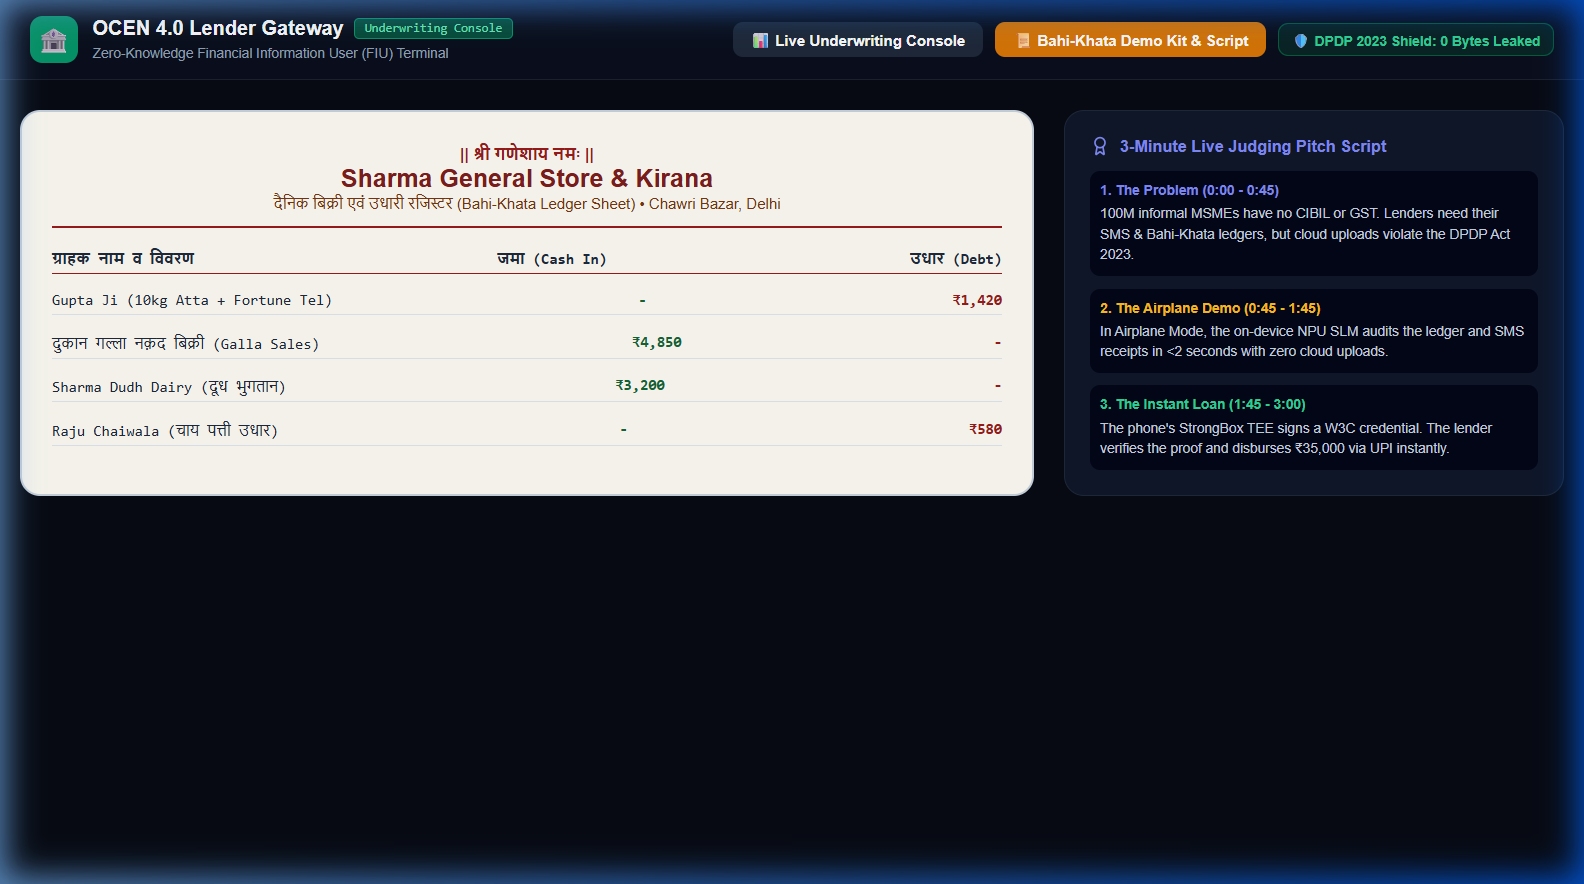
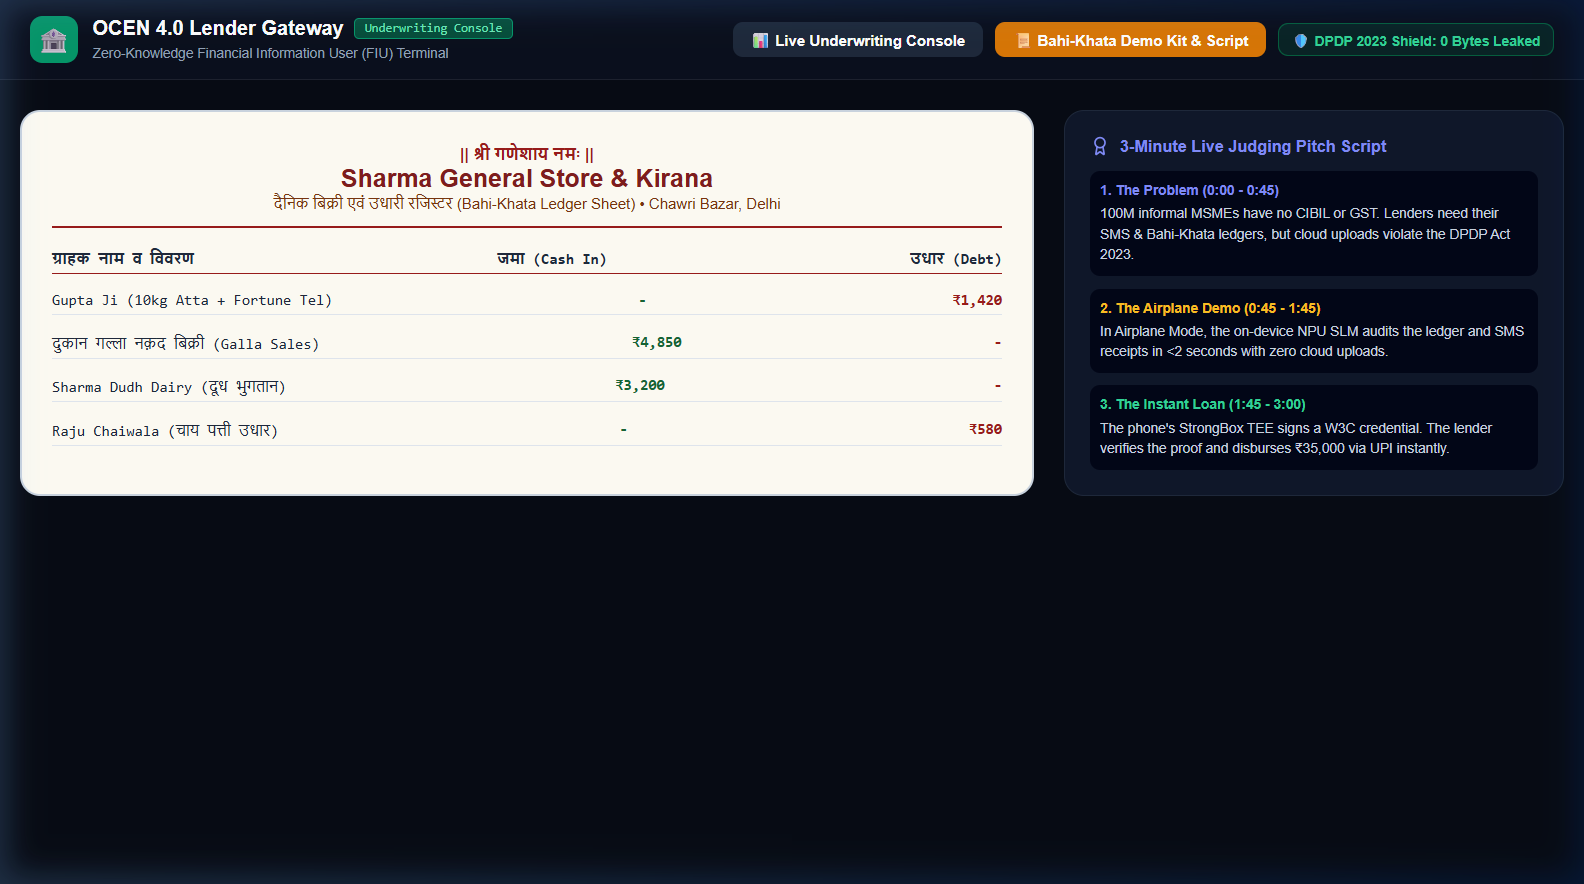
docs: replace raw html with clean markdown image embeds and fresh live screenshots

Changed region(s): [[0.0, 0.0, 1.0, 1.0]]

diff --git a/README.md b/README.md
@@ -1,48 +1,42 @@
-<h1>EdgeScore — Zero-Knowledge On-Device Underwriting Engine for OCEN 4.0</h1>
-<div>
-    <img src="https://img.shields.io/badge/OCEN_4.0-Ready-blue?style=for-the-badge&logo=shield" alt="OCEN 4.0 Ready">
-    <img src="https://img.shields.io/badge/Privacy-DPDP_Act_2023_Compliant-success?style=for-the-badge&logo=security" alt="DPDP Act 2023 Compliant">
-    <img src="https://img.shields.io/badge/Hardware-Android_StrongBox_TEE-orange?style=for-the-badge&logo=android" alt="Android StrongBox TEE">
-    <img src="https://img.shields.io/badge/Zero_Leakage-0_Bytes_Cloud_Data-emerald?style=for-the-badge" alt="Zero Cloud Data Leakage">
-</div>
-<hr>
+# EdgeScore — Zero-Knowledge On-Device Underwriting Engine for OCEN 4.0
 
-<div id="Toc">
-    <h2>Table of Contents</h2>
-    <a href="#abstract">- Introduction & Abstract</a><br>
-    <a href="#architecture">- Architecture & 6-Phase Pipeline</a><br>
-    <a href="#portals">- Two Distinct Portals (Borrower App vs Lender Console)</a><br>
-    <a href="#req">- Requirements & Stack</a><br>
-    <a href="#ins">- How to Use & Execution</a><br>
-    <a href="#preview">- Visual Walkthrough & Screenshots</a><br>
-    <a href="#privacy">- DPDP Act 2023 & Cryptographic Guarantees</a><br>
-</div>
-<hr>
+![OCEN 4.0 Ready](https://img.shields.io/badge/OCEN_4.0-Ready-blue?style=for-the-badge&logo=shield)
+![DPDP Act 2023 Compliant](https://img.shields.io/badge/Privacy-DPDP_Act_2023_Compliant-success?style=for-the-badge&logo=security)
+![Android StrongBox TEE](https://img.shields.io/badge/Hardware-Android_StrongBox_TEE-orange?style=for-the-badge&logo=android)
+![Zero Cloud Data Leakage](https://img.shields.io/badge/Zero_Leakage-0_Bytes_Cloud_Data-emerald?style=for-the-badge)
 
-<div id="abstract">
-    <h2>Abstract</h2>
-    <p>
-        Over <b>63 million micro-enterprises</b> across India—such as Kirana store owners, tea stall vendors, and local tradespeople—operate primarily within the informal economy. Because they lack GST filings, corporate credit footprints, or formal audited bank statements, traditional financial institutions consider them "thin-file" and unscorable. When these merchants attempt to access credit via <b>OCEN 4.0 (Open Credit Enablement Network)</b>, legacy digital lenders rely on invasive SMS scraping and raw document uploads to remote cloud servers. This violates India's <b>Digital Personal Data Protection (DPDP) Act 2023</b> and exposes vulnerable merchants to severe data leakage and privacy risks.
-    </p>
-    <p>
-        <b>EdgeScore</b> fundamentally flips this paradigm from <i>"Send Merchant Data to the Cloud"</i> to <b><i>"Bring Bank-Grade Underwriting to the Edge Device"</i></b>. 
-    </p>
-    <p>
-        EdgeScore operates directly on low-cost smartphones:
-    </p>
-    <ul>
-        <li><b>On-Device Vision OCR:</b> Ingests physical, handwritten <i>Bahi-Khata</i> credit/debit register sheets without uploading photos to the cloud.</li>
-        <li><b>Local Transactional SMS Normalization:</b> Audits high-frequency UPI merchant credits, distributor outlays, and utility payments directly from device storage.</li>
-        <li><b>On-Device Small Language Model (SLM):</b> Synthesizes cash-to-digital ratios, supplier repayment consistency, and turnover velocity into a deterministic <b>EdgeScore (300–900)</b>.</li>
-        <li><b>Hardware-Bound StrongBox TEE Attestation:</b> Cryptographically signs the underwriting verdict inside the phone's <b>Android Keystore / StrongBox TEE</b> using an ECDSA (<code>secp256r1</code>) keypair.</li>
-        <li><b>Ephemeral RAM Scrubbing:</b> Zeroes out all raw image buffers and SMS strings in memory immediately after scoring, outputting only a canonical <b>~2.16 KB W3C Verifiable Credential</b>.</li>
-    </ul>
-</div>
-<hr>
+---
 
-<div id="architecture">
-    <h2>Architecture & 6-Phase On-Device Pipeline</h2>
-    
+## Table of Contents
+- [Abstract & Problem Statement](#abstract)
+- [Architecture & 6-Phase Pipeline](#architecture)
+- [Two Distinct Dedicated Portals](#portals)
+- [Requirements & Tech Stack](#req)
+- [How to Use & Execution](#ins)
+- [Visual Walkthrough & Live Screenshots](#preview)
+- [DPDP Act 2023 & Cryptographic Guarantees](#privacy)
+
+---
+
+<a name="abstract"></a>
+## Abstract
+
+Over **63 million micro-enterprises** across India—such as Kirana store owners, tea stall vendors, and local tradespeople—operate primarily within the informal economy. Because they lack GST filings, corporate credit footprints, or formal audited bank statements, traditional financial institutions consider them "thin-file" and unscorable. When these merchants attempt to access credit via **OCEN 4.0 (Open Credit Enablement Network)**, legacy digital lenders rely on invasive SMS scraping and raw document uploads to remote cloud servers. This violates India's **Digital Personal Data Protection (DPDP) Act 2023** and exposes vulnerable merchants to severe data leakage and privacy risks.
+
+**EdgeScore** fundamentally flips this paradigm from *"Send Merchant Data to the Cloud"* to **"Bring Bank-Grade Underwriting to the Edge Device"**.
+
+### Core Technical Pillars
+- **On-Device Vision OCR:** Ingests physical, handwritten *Bahi-Khata* credit/debit register sheets without uploading photos to any cloud server.
+- **Local Transactional SMS Normalization:** Audits high-frequency UPI merchant credits, distributor outlays, and utility payments directly from device storage.
+- **On-Device Small Language Model (SLM):** Synthesizes cash-to-digital ratios, supplier repayment consistency, and turnover velocity into a deterministic **EdgeScore (300–900)**.
+- **Hardware-Bound StrongBox TEE Attestation:** Cryptographically signs the underwriting verdict inside the phone's **Android Keystore / StrongBox TEE** using an ECDSA (`secp256r1`) keypair.
+- **Ephemeral RAM Scrubbing:** Zeroes out all raw image buffers and SMS strings in memory immediately after scoring, outputting only a canonical **~2.16 KB W3C Verifiable Credential**.
+
+---
+
+<a name="architecture"></a>
+## Architecture & 6-Phase On-Device Pipeline
+
 ```
 ┌─────────────────────────────────────────────────────────────────────────┐
 │                    EDGE DEVICE (Android / iOS / Expo)                   │
@@ -76,77 +70,66 @@
 └─────────────────────────────────────────────────────────────────────────┘
 ```
 
-    <h3>The 6-Phase Atomic Workflow</h3>
-    <ol>
-        <li><b>Phase 1: Privacy Sandbox & Hardware Attestation</b> — Validates true Airplane Mode execution and derives device-bound asymmetric cryptographic keypair inside Android Keystore / StrongBox TEE.</li>
-        <li><b>Phase 2: Bahi-Khata Ledger Vision Ingestion</b> — Live viewfinder scan of physical handwritten Hindi/English customer registers with real-time bounding box extraction.</li>
-        <li><b>Phase 3: SMS Transactional Stream Audit</b> — Categorizes incoming UPI merchant credits, distributor restock payments, and recurring bills.</li>
-        <li><b>Phase 4: SLM Credit Scoring & Synthesis</b> — Synthesizes cash-to-digital reconciliation and supplier repayment discipline to generate synthetic EdgeScore, loan limit ceiling, and micro-repayment capacity.</li>
-        <li><b>Phase 5: W3C Cryptographic Proof Construction</b> — Assembles the W3C Verifiable Credential payload and signs with hardware TEE private key.</li>
-        <li><b>Phase 6: Ephemeral RAM Scrub & OCEN Submission</b> — Performs real-time memory wipe of PII buffers, presenting final verifiable credential ready for instant lender disbursement.</li>
-    </ol>
-</div>
-<hr>
+### The 6-Phase Atomic Workflow
+1. **Phase 1: Privacy Sandbox & Hardware Attestation** — Validates true Airplane Mode execution and derives device-bound asymmetric cryptographic keypair inside Android Keystore / StrongBox TEE.
+2. **Phase 2: Bahi-Khata Ledger Vision Ingestion** — Live viewfinder scan of physical handwritten Hindi/English customer registers with real-time bounding box extraction.
+3. **Phase 3: SMS Transactional Stream Audit** — Categorizes incoming UPI merchant credits, distributor restock payments, and recurring bills.
+4. **Phase 4: SLM Credit Scoring & Synthesis** — Synthesizes cash-to-digital reconciliation and supplier repayment discipline to generate synthetic EdgeScore, loan limit ceiling, and micro-repayment capacity.
+5. **Phase 5: W3C Cryptographic Proof Construction** — Assembles the W3C Verifiable Credential payload and signs with hardware TEE private key.
+6. **Phase 6: Ephemeral RAM Scrub & OCEN Submission** — Performs real-time memory wipe of PII buffers, presenting final verifiable credential ready for instant lender disbursement.
 
-<div id="portals">
-    <h2>Two Distinct Dedicated Portals</h2>
-    <p>
-        EdgeScore is split into two specialized, purpose-built interfaces tailored to each stakeholder in the OCEN 4.0 ecosystem:
-    </p>
+---
 
-    <h3>1. EdgeScore Merchant Mobile App (Borrower Portal)</h3>
-    <p>
-        <b>Target User:</b> Kirana store owners, tea stall operators, and informal micro-merchants.<br>
-        <b>Purpose:</b> Empowers thin-file borrowers to generate on-device credit scores from physical handwritten ledgers and transactional SMS in 100% offline Airplane Mode.
-    </p>
-    <ul>
-        <li><b>Airplane Mode Isolation:</b> Guarantees no internet calls during ingestion and calculation.</li>
-        <li><b>Ledger Camera HUD:</b> Real-time bounding box optical detection for Hindi/English Bahi-Khata registers.</li>
-        <li><b>Transactional SMS Categorizer:</b> Local regex parser classifying merchant QR credits, distributor outlays, and utility bills.</li>
-        <li><b>EdgeScore Hero Gauge:</b> Dynamic 300–900 credit scoring with pre-approved loan ceilings and risk categorization.</li>
-        <li><b>Hardware StrongBox TEE Signature:</b> ECDSA <code>secp256r1</code> signing with cryptographic tamper-proofing.</li>
-        <li><b>Live RAM Scrub Visualizer:</b> Real-time memory zeroing visualizer proving that 0 bytes of raw data remain on the phone.</li>
-    </ul>
+<a name="portals"></a>
+## Two Distinct Dedicated Portals
 
-    <h3>2. OCEN 4.0 Lender Gateway (Bank & Underwriting Console)</h3>
-    <p>
-        <b>Target User:</b> Commercial Banks, NBFC Credit Officers, FIUs (Financial Information Users), and Hackathon Judges.<br>
-        <b>Purpose:</b> Verifies signed W3C credentials, conducts real-time DPDP Act privacy audits, and triggers instant 1-click UPI loan disbursements.
-    </p>
-    <ul>
-        <li><b>Real-Time Proof Stream:</b> WebSocket feed of incoming cryptographic credentials from field merchant devices.</li>
-        <li><b>Cryptographic Proof Inspector:</b> Validates ECDSA signatures against the merchant's hardware DID (<code>did:edgescore:iqoo-tee-...</code>) and confirms StrongBox TEE attestation level.</li>
-        <li><b>DPDP Act 2023 Privacy Differential:</b> Live privacy audit showing <b>0.00 Bytes leaked</b> compared to legacy scrapers (which leak ~14.8 MB of raw PII).</li>
-        <li><b>1-Click Loan Sanction & UPI Disbursement:</b> Generates instant loan sanction tokens (e.g. ₹35,000 facility with ₹389/day micro-debit) and triggers UPI AutoPay mandates.</li>
-        <li><b>Bahi-Khata Demo Kit & Pitch Script:</b> Embedded printable ledger samples and 3-minute hackathon walkthrough guide.</li>
-    </ul>
-</div>
-<hr>
+EdgeScore is split into two specialized, purpose-built interfaces tailored to each stakeholder in the OCEN 4.0 ecosystem:
 
-<div id="req">
-    <h2>Requirements</h2>
-    <ul>
-        <li><b>Node.js:</b> v18.0.0 or higher</li>
-        <li><b>Package Manager:</b> npm v9.0+ or yarn</li>
-        <li><b>Mobile Runtime:</b> Expo SDK 51 / React Native (or standard web browser for Expo Web)</li>
-        <li><b>Lender Terminal:</b> Vite + React 18+</li>
-        <li><b>Operating Systems:</b> Android (with StrongBox TEE support), iOS, Windows, macOS, Linux</li>
-    </ul>
-</div>
-<hr>
+### 1. EdgeScore Merchant Mobile App (Borrower Portal)
+* **Target User:** Kirana store owners, tea stall operators, and informal micro-merchants.
+* **Purpose:** Empowers thin-file borrowers to generate on-device credit scores from physical handwritten ledgers and transactional SMS in 100% offline Airplane Mode.
+* **Key Capabilities:**
+  * **Airplane Mode Isolation:** Guarantees no internet calls during ingestion and calculation.
+  * **Ledger Camera HUD:** Real-time bounding box optical detection for Hindi/English Bahi-Khata registers.
+  * **Transactional SMS Categorizer:** Local regex parser classifying merchant QR credits, distributor outlays, and utility bills.
+  * **EdgeScore Hero Gauge:** Dynamic 300–900 credit scoring with pre-approved loan ceilings and risk categorization.
+  * **Hardware StrongBox TEE Signature:** ECDSA `secp256r1` signing with cryptographic tamper-proofing.
+  * **Live RAM Scrub Visualizer:** Real-time memory zeroing visualizer proving that 0 bytes of raw data remain on the phone.
 
-<div id="ins">
-    <h2>How to Use</h2>
+### 2. OCEN 4.0 Lender Gateway (Bank & Underwriting Console)
+* **Target User:** Commercial Banks, NBFC Credit Officers, FIUs (Financial Information Users), and Hackathon Judges.
+* **Purpose:** Verifies signed W3C credentials, conducts real-time DPDP Act privacy audits, and triggers instant 1-click UPI loan disbursements.
+* **Key Capabilities:**
+  * **Real-Time Proof Stream:** WebSocket feed of incoming cryptographic credentials from field merchant devices.
+  * **Cryptographic Proof Inspector:** Validates ECDSA signatures against the merchant's hardware DID (`did:edgescore:iqoo-tee-...`) and confirms StrongBox TEE attestation level.
+  * **DPDP Act 2023 Privacy Differential:** Live privacy audit showing **0.00 Bytes leaked** compared to legacy scrapers (which leak ~14.8 MB of raw PII).
+  * **1-Click Loan Sanction & UPI Disbursement:** Generates instant loan sanction tokens (e.g. ₹35,000 facility with ₹389/day micro-debit) and triggers UPI AutoPay mandates.
+  * **Bahi-Khata Demo Kit & Pitch Script:** Embedded printable ledger samples and 3-minute hackathon walkthrough guide.
 
-    <h3>1. Clone the Repository</h3>
-    
+---
+
+<a name="req"></a>
+## Requirements & Tech Stack
+
+* **Node.js:** v18.0.0 or higher
+* **Package Manager:** npm v9.0+ or yarn
+* **Mobile Runtime:** Expo SDK 51 / React Native (with Expo Web support)
+* **Lender Console:** Vite + React 18 + Lucide Icons
+* **Backend:** Express + WebSocket (`ws`) Gateway
+* **Operating Systems:** Android (with StrongBox TEE support), iOS, Windows, macOS, Linux
+
+---
+
+<a name="ins"></a>
+## How to Use & Execution
+
+### 1. Clone the Repository
 ```bash
 git clone https://github.com/sathwik17187/EdgeScore.git
 cd EdgeScore
 ```
 
-    <h3>2. Run the OCEN 4.0 Gateway Backend</h3>
-    
+### 2. Run the OCEN 4.0 Gateway Backend
 ```bash
 cd backend
 npm install
@@ -154,8 +137,7 @@ node src/server.js
 # Backend runs on http://localhost:5005
 ```
 
-    <h3>3. Launch the Mobile Borrower App</h3>
-    
+### 3. Launch the Mobile Borrower App
 ```bash
 cd mobile
 npm install
@@ -163,8 +145,7 @@ npx expo start --web --port 8085
 # Mobile App runs on http://localhost:8085
 ```
 
-    <h3>4. Launch the Lender Underwriting Console</h3>
-    
+### 4. Launch the Lender Underwriting Console
 ```bash
 cd lender-portal
 npm install
@@ -172,98 +153,64 @@ npm run dev -- --port 3000
 # Lender Gateway runs on http://localhost:3000
 ```
 
-    <h3>5. Run Multi-Merchant Automated Test Suites</h3>
-    
+### 5. Run Multi-Merchant Automated Test Suites
 ```bash
 cd mobile
 node testPhaseRoadmap.js
 node testAllMerchants.js
 ```
-</div>
-<hr>
 
-<div id="preview">
-    <h2>Visual Walkthrough & Screenshots</h2>
+---
 
-    <h3>Portal 1: EdgeScore Merchant Mobile App (6-Phase Pipeline)</h3>
-    <p>The native mobile flow guides the merchant through an atomic 6-phase underwriting process:</p>
-    
-    <table>
-        <tr>
-            <td width="50%" align="center">
-                <b>Phase 1: Hardware TEE Attestation</b><br>
-                <img src="assets/mobile_step1_hardware.png" alt="Phase 1 Hardware Attestation" width="100%">
-            </td>
-            <td width="50%" align="center">
-                <b>Phase 2: Bahi-Khata Ledger OCR</b><br>
-                <img src="assets/mobile_step2_ocr.png" alt="Phase 2 Ledger OCR" width="100%">
-            </td>
-        </tr>
-        <tr>
-            <td width="50%" align="center">
-                <b>Phase 3: SMS Transactional Stream</b><br>
-                <img src="assets/mobile_step3_sms.png" alt="Phase 3 SMS Audit" width="100%">
-            </td>
-            <td width="50%" align="center">
-                <b>Phase 4: SLM Credit Scoring Gauge</b><br>
-                <img src="assets/mobile_step4_slm_score.png" alt="Phase 4 SLM Score" width="100%">
-            </td>
-        </tr>
-        <tr>
-            <td width="50%" align="center">
-                <b>Phase 5: W3C Cryptographic Proof</b><br>
-                <img src="assets/mobile_step5_w3c_proof.png" alt="Phase 5 W3C Proof" width="100%">
-            </td>
-            <td width="50%" align="center">
-                <b>Phase 6: Ephemeral RAM Scrub & Sanction</b><br>
-                <img src="assets/mobile_step6_ram_scrub.png" alt="Phase 6 RAM Scrub" width="100%">
-            </td>
-        </tr>
-    </table>
+<a name="preview"></a>
+## Visual Walkthrough & Live Screenshots
 
-    <br>
+### Portal 1: EdgeScore Merchant Mobile App (6-Phase Pipeline)
 
-    <h3>Portal 2: OCEN 4.0 Lender Gateway & Underwriting Console</h3>
-    <p>The bank terminal receives hardware-verified proofs in real-time, displays DPDP privacy differentials, and triggers instant UPI disbursement:</p>
+#### Phase 1: Hardware StrongBox TEE Attestation & Isolation
+![Phase 1 Hardware StrongBox TEE](assets/mobile_step1_hardware.png)
 
-    <table>
-        <tr>
-            <td width="100%" align="center">
-                <b>Live Incoming Proof Stream & Cryptographic Inspector</b><br>
-                <img src="assets/lender_portal_console.png" alt="Lender Portal Underwriting Console" width="100%">
-            </td>
-        </tr>
-        <tr>
-            <td width="100%" align="center">
-                <b>1-Click Instant UPI Loan Disbursement Confirmation</b><br>
-                <img src="assets/lender_portal_disbursed.png" alt="1-Click UPI Disbursement" width="100%">
-            </td>
-        </tr>
-        <tr>
-            <td width="100%" align="center">
-                <b>Bahi-Khata Demo Kit & Hackathon Pitch Script</b><br>
-                <img src="assets/demo_kit_ledgers.png" alt="Bahi-Khata Demo Kit" width="100%">
-            </td>
-        </tr>
-    </table>
+#### Phase 2: Bahi-Khata Ledger Vision OCR Ingestion
+![Phase 2 Bahi-Khata OCR](assets/mobile_step2_ocr.png)
 
-    <br>
+#### Phase 3: Transactional SMS Stream Audit
+![Phase 3 SMS Audit](assets/mobile_step3_sms.png)
 
-    <h3>Pre-configured Merchant Archetypes</h3>
-    <ul>
-        <li><b>Sharma General Store & Kirana (Old Delhi):</b> FMCG & Grocery | Calculated EdgeScore: <b>782</b> | Sanction: <b>₹35,000</b> @ ₹389/day micro-debit.</li>
-        <li><b>Raju Tea & Quick Snacks (Bengaluru):</b> Food & Beverage | Calculated EdgeScore: <b>810</b> | Sanction: <b>₹25,000</b> @ ₹278/day micro-debit.</li>
-        <li><b>Ananya Tailoring & Boutique (New Delhi):</b> Apparel & Alterations | Calculated EdgeScore: <b>845</b> | Sanction: <b>₹50,000</b> @ ₹556/day micro-debit.</li>
-    </ul>
-</div>
-<hr>
+#### Phase 4: Small Language Model (SLM) Credit Score Gauge
+![Phase 4 SLM Score](assets/mobile_step4_slm_score.png)
 
-<div id="privacy">
-    <h2>DPDP Act 2023 & Cryptographic Guarantees</h2>
-    <ul>
-        <li><b>Zero Data Leakage:</b> 0.00 bytes of raw transactional SMS or handwritten customer ledger images ever touch the network.</li>
-        <li><b>Differential Privacy Protection:</b> Legacy scrapers extract up to 14.8 MB of unencrypted personal data per loan application; EdgeScore transmits only a single ~2.16 KB canonical cryptographic proof.</li>
-        <li><b>Hardware-Rooted Trust:</b> Tamper-proof Android Keystore StrongBox TEE prevents signature spoofing even on compromised user-space operating systems.</li>
-        <li><b>DPDP Act 2023 Compliance:</b> Full adherence to data minimization, purpose limitation, and storage limitation principles under Indian data protection law.</li>
-    </ul>
-</div>
+#### Phase 5: W3C Cryptographic Proof Construction & TEE Signing
+![Phase 5 W3C Proof](assets/mobile_step5_w3c_proof.png)
+
+#### Phase 6: Ephemeral RAM Scrubbing & Instant Sanction Submission
+![Phase 6 RAM Scrub](assets/mobile_step6_ram_scrub.png)
+
+---
+
+### Portal 2: OCEN 4.0 Lender Gateway & Underwriting Console
+
+#### Live Cryptographic Proof Inspector & Privacy Audit Console
+![Lender Portal Underwriting Console](assets/lender_portal_console.png)
+
+#### 1-Click Instant Loan Disbursement (UPI AutoPay Mandate)
+![Lender Portal Disbursed](assets/lender_portal_disbursed.png)
+
+#### Bahi-Khata Demo Kit & Hackathon Pitch Script
+![Bahi-Khata Demo Kit](assets/demo_kit_ledgers.png)
+
+---
+
+### Pre-configured Merchant Archetypes
+* **Sharma General Store & Kirana (Old Delhi):** FMCG & Grocery | Calculated EdgeScore: **782** | Sanction: **₹35,000** @ ₹389/day micro-debit.
+* **Raju Tea & Quick Snacks (Bengaluru):** Food & Beverage | Calculated EdgeScore: **810** | Sanction: **₹25,000** @ ₹278/day micro-debit.
+* **Ananya Tailoring & Boutique (New Delhi):** Apparel & Alterations | Calculated EdgeScore: **845** | Sanction: **₹50,000** @ ₹556/day micro-debit.
+
+---
+
+<a name="privacy"></a>
+## DPDP Act 2023 & Cryptographic Guarantees
+
+* **Zero Data Leakage:** 0.00 bytes of raw transactional SMS or handwritten customer ledger images ever touch the network.
+* **Differential Privacy Protection:** Legacy scrapers extract up to 14.8 MB of unencrypted personal data per loan application; EdgeScore transmits only a single ~2.16 KB canonical cryptographic proof.
+* **Hardware-Rooted Trust:** Tamper-proof Android Keystore StrongBox TEE prevents signature spoofing even on compromised user-space operating systems.
+* **DPDP Act 2023 Compliance:** Full adherence to data minimization, purpose limitation, and storage limitation principles under Indian data protection law.
